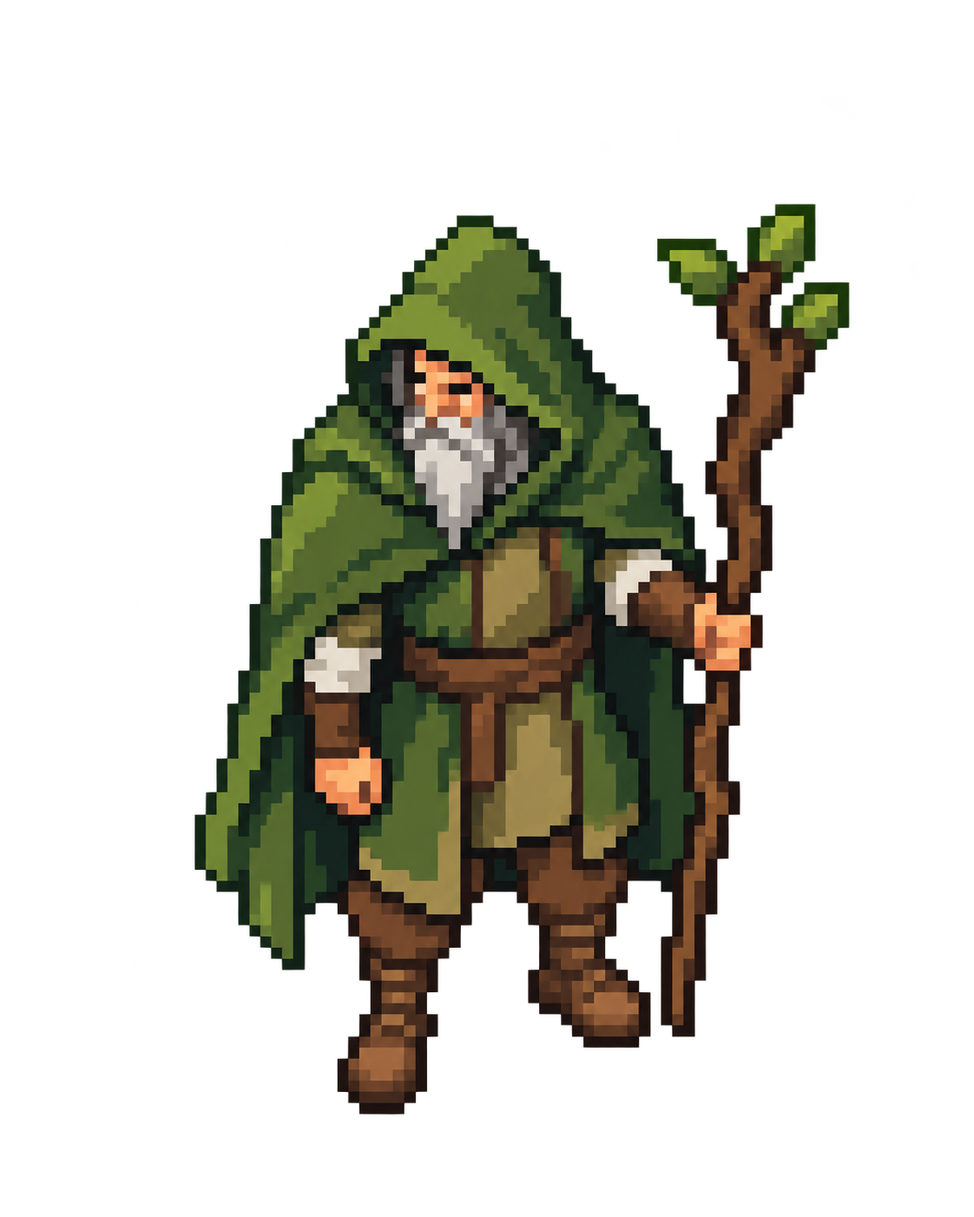
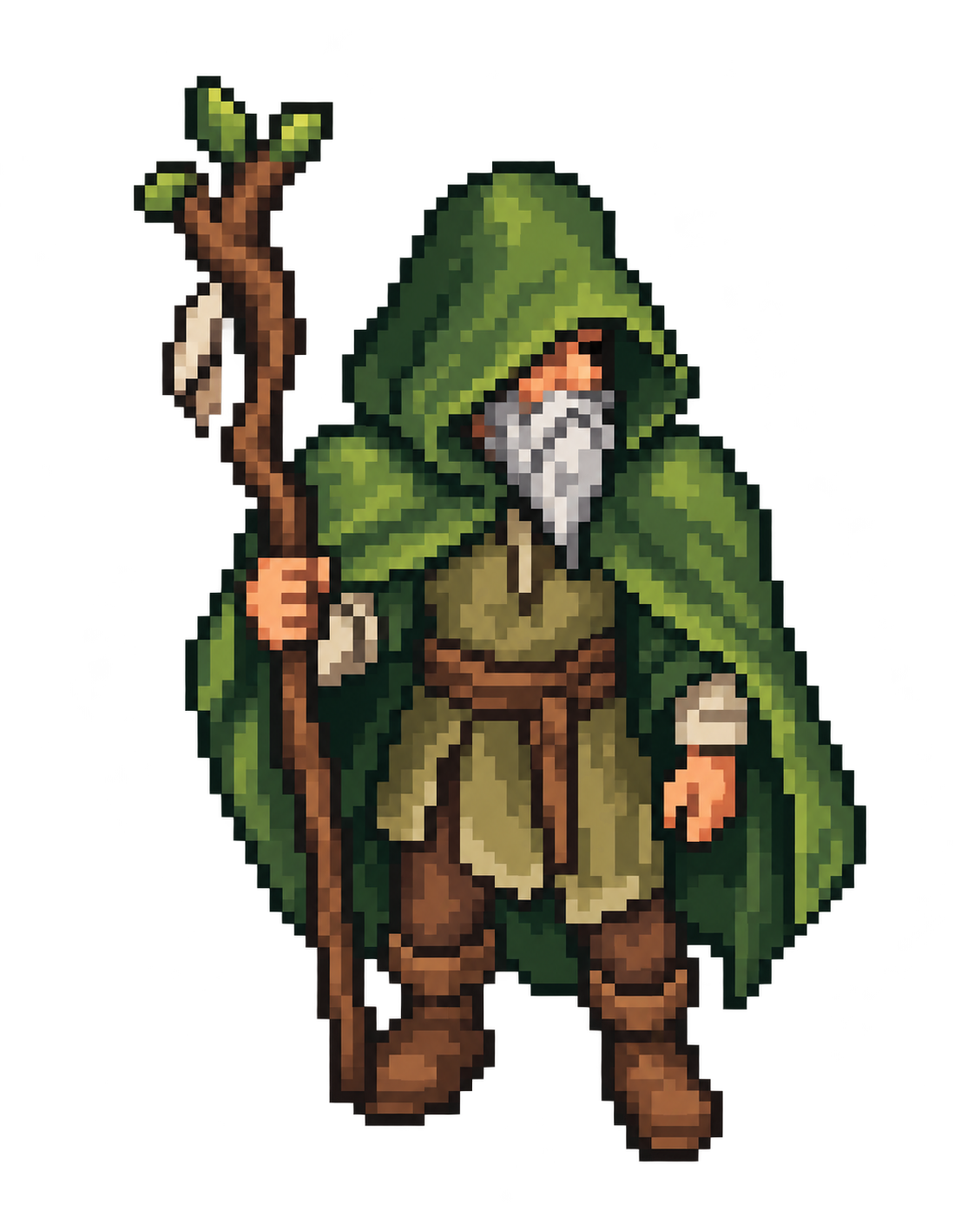
Integrate approved larger camp druid and detailed playable sprite

diff --git a/src/rendering/druidArt.ts b/src/rendering/druidArt.ts
@@ -11,21 +11,27 @@ export const DRUID_TEXTURES = {
 
 export const DRUID_ART = [
   { key: DRUID_TEXTURES.standing, url: standing, frame: { x: 275, y: 49, width: 745, height: 1129 } },
-  { key: DRUID_TEXTURES.campSource, url: campSource, frame: { x: 280, y: 86, width: 769, height: 1093 } },
-  { key: DRUID_TEXTURES.gameSource, url: gameSource, frame: { x: 224, y: 235, width: 754, height: 1049 } },
+  { key: DRUID_TEXTURES.campSource, url: campSource, frame: { x: 87, y: 25, width: 917, height: 1401 } },
+  { key: DRUID_TEXTURES.gameSource, url: gameSource, frame: { x: 154, y: 88, width: 844, height: 1250 } },
 ] as const;
 
 export const CAMP_DRUID = {
-  width: 40, height: 56, contentHeight: 50,
-  seatOriginY: (1 + 50 * 0.67) / 56,
+  width: 54, height: 75, contentHeight: 67,
+  scale: 265 / 75,
+  seatOriginY: (1 + 67 * 0.67) / 75,
 } as const;
 
+export interface GameSpriteMetrics {
+  width: number; height: number; scale: number; contentHeight: number;
+  feetY: number; bodyWidth: number; bodyHeight: number; bodyCenterY: number;
+}
+
 export const GAME_DRUID = {
-  // Тот же формат кадра, но меньше исходных пикселей и ещё +25% к размеру.
-  width: 24, height: 30, scale: (32 / 24) * 1.75 * 1.25 * 1.25,
-  contentHeight: 25, feetY: 26,
+  // На треть больше пикселей по каждой стороне при прежнем размере на поляне.
+  width: 32, height: 40, scale: 87.5 / 32,
+  contentHeight: 33, feetY: 34,
   bodyWidth: 20, bodyHeight: 25, bodyCenterY: 10,
-} as const;
+} as const satisfies GameSpriteMetrics;
 
 const GAME_PALETTE = [
   0x142820,
@@ -33,8 +39,9 @@ const GAME_PALETTE = [
   0x393022, 0x655134, 0x9c7e53,
   0xad8b60, 0xc7ab7b,
   0x637266, 0x9fa98e, 0xc9cbb1,
+  0x203927, 0x547348, 0x80765a, 0xb6bba0,
 ];
-const CAMP_PALETTE = [...GAME_PALETTE, 0x203927, 0xaaa17b, 0xbaa26b, 0x88947f];
+const CAMP_PALETTE = [...GAME_PALETTE, 0xaaa17b, 0xbaa26b, 0x88947f, 0x344c3e, 0x796542, 0xd8d6b9];
 
 interface SmallSprite {
   key: string; sourceKey: string;

diff --git a/src/data/characters.ts b/src/data/characters.ts
@@ -1,4 +1,4 @@
-import { CAMP_DRUID, DRUID_TEXTURES } from '../rendering/druidArt';
+import { CAMP_DRUID, DRUID_TEXTURES, GAME_DRUID, type GameSpriteMetrics } from '../rendering/druidArt';
 
 export interface CharacterDefinition {
   id: string;
@@ -6,7 +6,8 @@ export interface CharacterDefinition {
   available: boolean;
   description: string;
   portrait: { texture: string; frame?: string };
-  camp?: { texture: string; originX: number; originY: number };
+  camp?: { texture: string; originX: number; originY: number; scale: number };
+  game?: { texture: string; metrics: GameSpriteMetrics };
 }
 
 // Порядок массива определяет порядок ячеек; новые персонажи добавляются здесь.
@@ -14,7 +15,8 @@ export const CHARACTERS: readonly CharacterDefinition[] = [
   {
     id: 'druid', name: 'Друид', available: true, description: 'Природная магия · 3 HP',
     portrait: { texture: DRUID_TEXTURES.standing, frame: 'figure' },
-    camp: { texture: DRUID_TEXTURES.camp, originX: 0.5, originY: CAMP_DRUID.seatOriginY },
+    camp: { texture: DRUID_TEXTURES.camp, originX: 0.5, originY: CAMP_DRUID.seatOriginY, scale: CAMP_DRUID.scale },
+    game: { texture: DRUID_TEXTURES.game, metrics: GAME_DRUID },
   },
   { id: 'locked-1', name: 'Закрыто', available: false, description: 'Пока недоступен', portrait: { texture: DRUID_TEXTURES.standing, frame: 'figure' } },
   { id: 'locked-2', name: 'Закрыто', available: false, description: 'Пока недоступен', portrait: { texture: DRUID_TEXTURES.standing, frame: 'figure' } },

diff --git a/src/scenes/RoomScene.ts b/src/scenes/RoomScene.ts
@@ -6,7 +6,6 @@ import { bindSceneKey } from '../ui/sceneHelpers';
 import { MeadowWorld } from '../world/MeadowWorld';
 import { generateMeadow, MEADOW_MIN_HEIGHT, MEADOW_PIXEL_SCALE, obstacleRect, overlaps, type MeadowLayout } from '../world/meadowLayout';
 import { createMeadowTextures } from '../rendering/meadowTextures';
-import { DRUID_TEXTURES, GAME_DRUID } from '../rendering/druidArt';
 
 export class RoomScene extends Phaser.Scene {
   player!: Phaser.Physics.Arcade.Image;
@@ -31,10 +30,12 @@ export class RoomScene extends Phaser.Scene {
     this.playerHealth = SETTINGS.playerHealth;
     this.physics.resume();
     createMeadowTextures(this);
-    const art = GAME_DRUID;
+    const character = CHARACTERS.find(item => item.id === this.characterId)!;
+    const appearance = character.game ?? CHARACTERS[0].game!;
+    const art = appearance.metrics;
     const feetOffset = art.bodyCenterY + art.bodyHeight / 2;
     const originY = art.feetY - feetOffset / art.scale;
-    this.player = this.physics.add.image(0, 0, DRUID_TEXTURES.game)
+    this.player = this.physics.add.image(0, 0, appearance.texture)
       .setOrigin(0.5, originY / art.height).setScale(art.scale)
       .setSize(art.bodyWidth / art.scale, art.bodyHeight / art.scale)
       .setOffset((art.width - art.bodyWidth / art.scale) / 2,

diff --git a/src/scenes/CharacterSelectScene.ts b/src/scenes/CharacterSelectScene.ts
@@ -71,7 +71,7 @@ export class CharacterSelectScene extends Phaser.Scene {
     this.selectedId = character.id;
     this.cards.forEach(card => card.setSelected(card.getData('characterId') === character.id));
     this.campPreview.setTexture(character.camp.texture).setOrigin(character.camp.originX, character.camp.originY)
-      .setScale(MENU_LAYOUT.select.backgroundPixelScale).setData('characterId', character.id);
+      .setScale(character.camp.scale).setData('characterId', character.id);
     this.nameLabel.setText(character.name);
     this.descriptionLabel.setText(character.description);
     return true;

diff --git a/docs/VISUAL_STYLE.md b/docs/VISUAL_STYLE.md
@@ -14,11 +14,11 @@
 
 ## Выбор персонажа
 
-Лес, костёр и бревно сохраняют композицию, но фон имеет более простые пиксельные формы. На бревне сидит отдельно перерисованная версия рабочего друида: крупные простые цветовые формы вместо высокой детализации портрета. Текстура 40×56 пикселей, до 16 цветов; увеличение в 2,5 раза совпадает с размером пикселя задника. Внешний вид фигуры и её точка опоры задаются в данных выбранного персонажа, чтобы позже переключать образы без перерисовки леса. Остальные ячейки пока закрыты. Ячейка друида показывает его рабочий образ в полный рост. Слева три ячейки: первая доступна, остальные затемнены. Смена фона, интерфейса и персонажа должна выполняться независимо.
+Лес, костёр и бревно сохраняют композицию, но фон имеет более простые пиксельные формы. На бревне сидит отдельно перерисованная версия рабочего друида: крупные простые цветовые формы вместо высокой детализации портрета. Текстура 54×75 пикселей, до 22 цветов; отображение 190,8×265 игровых единиц. Фигура значительно крупнее, по масштабу ближе к друиду главного меню; немного яснее лицо, руки, борода и складки. Внешний вид фигуры, масштаб и её точка опоры задаются в данных выбранного персонажа, чтобы позже переключать образы без перерисовки леса. Остальные ячейки пока закрыты. Ячейка друида показывает его рабочий образ в полный рост. Слева три ячейки: первая доступна, остальные затемнены. Смена фона, интерфейса и персонажа должна выполняться независимо.
 
 Первый принятый экран выбора сохранён меткой Git `character-select-v1` (коммит `07952f3`): фон 480×270, увеличенный до 960×540 без сглаживания. Это первая примерно готовая визуальная веха проекта.
 
-Текущий эксперимент увеличивает размер пикселя ещё на четверть: коэффициент 2,5 вместо 2, фон 384×216. Коэффициент `backgroundPixelScale` задаётся в `src/ui/layout.ts`: возврат к 2 восстановит прежнюю плотность пикселей. Текст, кнопки и сидящая фигура рисуются отдельными слоями; у фигуры такая же плотность пикселей, как у фона. Между надписью «Природная магия · 3 HP» и кнопками оставлен больший отступ.
+Текущий эксперимент увеличивает размер пикселя ещё на четверть: коэффициент 2,5 вместо 2, фон 384×216. Коэффициент `backgroundPixelScale` задаётся в `src/ui/layout.ts`: возврат к 2 восстановит прежнюю плотность пикселей. Текст, кнопки и сидящая фигура рисуются отдельными слоями; разрешение и масштаб фигуры задаются отдельно от фона. Между надписью «Природная магия · 3 HP» и кнопками оставлен больший отступ.
 
 Рабочий образ героя принят, анимация ещё не подготовлена. Для новых персонажей, движений, кнопок и других художественных элементов сначала обсуждаем внешний вид и поведение, затем интегрируем согласованный вариант.
 
@@ -28,7 +28,7 @@
 
 По присланному референсу и направлению Children of Morta окружение и друид перерисованы в более тёмной зелёной палитре: неоднородная трава, группы листьев, объёмные кроны и тени. Вид сверху стал выше: больше видны верхние поверхности кроны, среза пня и капюшона, меньше — стволы и боковая кора. Это художественное изменение 2D-рисунка, числовой угол 3D-камеры не задаётся. WASD по-прежнему соответствует направлениям экрана. Мелкие украшения, отдельные волоски и фактура одежды убраны из игрового героя: читаемость строится на капюшоне, острой бороде, плаще, сапогах и посохе.
 
-Текстуры окружения временные, с коэффициентом увеличения 2,5 без сглаживания. Детализация согласуется с текущим экспериментом на экране выбора. Кустов от 4 до 7; деревьев базовое число ±4, например 31–39 при 16:9. Сохраняются центральный пень, свободные проходы и случайное размещение окружения. Жук и стрельба на время работы над комнатой отключены. Детализация окружения и анимации ещё предстоит согласовать. Друид в комнате использует упрощённую версию принятого рабочего образа: 24×30 пикселей, палитра до 12 цветов, отображение 87,5×109,375 игровых единиц (ещё на четверть больше 70×87,5) и прежняя геометрия столкновений.
+Текстуры окружения временные, с коэффициентом увеличения 2,5 без сглаживания. Детализация согласуется с текущим экспериментом на экране выбора. Кустов от 4 до 7; деревьев базовое число ±4, например 31–39 при 16:9. Сохраняются центральный пень, свободные проходы и случайное размещение окружения. Жук и стрельба на время работы над комнатой отключены. Детализация окружения и анимации ещё предстоит согласовать. Друид в комнате использует упрощённую версию принятого рабочего образа: 32×40 пикселей, палитра до 16 цветов, прежнее отображение 87,5×109,375 игровых единиц и прежняя геометрия столкновений. Детализация увеличена примерно на треть по каждой стороне; сохранены крупные читаемые формы. Текстура и параметры игрового образа задаются в данных персонажа.
 
 ## Развитие проекта
 

diff --git a/docs/art/druid-detail-preview-v1/README.md b/docs/art/druid-detail-preview-v1/README.md
@@ -1,6 +1,6 @@
 # Эскизы размера и детализации друида
 
-Две картинки для обсуждения следующего изменения. Они сгенерированы по снимкам текущих сцен и образу рабочего друида. Код, игровые PNG, параметры размеров и поведение приложения не изменены.
+Две одобренные картинки, сгенерированные по снимкам сцен и образу рабочего друида. На их основе подготовлены отдельные прозрачные сидящий и игровой спрайты и подключены в приложение. Эти PNG сохраняются как эскизы целых сцен; фон и интерфейс в игре остаются самостоятельными слоями.
 
 ## Экран выбора персонажа
 
@@ -8,7 +8,7 @@
 
 <img src="character-selection-preview.png" alt="Эскиз: более крупный сидящий друид на экране выбора" width="960">
 
-Сидящий друид заметно крупнее текущего, ориентир по размеру — персонаж в главном меню. Позу поддерживает то же бревно; крупный портрет в ячейке остаётся отдельным элементом. Детализация увеличена умеренно, с сохранением крупных пиксельных форм.
+Сидящий друид заметно крупнее предыдущего, ориентир по размеру — персонаж в главном меню. Позу поддерживает то же бревно; крупный портрет в ячейке остаётся отдельным элементом. Детализация увеличена умеренно, с сохранением крупных пиксельных форм.
 
 ## Игровой друид
 
@@ -18,13 +18,13 @@
 
 Ориентир — нынешний размер героя на поляне, с более ясными формами капюшона, лица, бороды, складок плаща и посоха. Мелкие украшения и шумная фактура не возвращаются.
 
-## Предлагаемая сетка для следующей интеграции
+## Подключённая сетка
 
-«На треть больше пикселей» в этой пробе означает увеличение разрешения примерно на треть **по каждой стороне**. Это целевые параметры будущих отдельных спрайтов; эти PNG показывают эскизы целых сцен.
+«На треть больше пикселей» в этой пробе означает увеличение разрешения примерно на треть **по каждой стороне**. Эти параметры реализованы в отдельных спрайтах; PNG в этой папке показывают одобренные эскизы целых сцен.
 
-| Вариант | Текущая сетка | Предлагаемая сетка | Масштаб на экране |
+| Вариант | Предыдущая сетка | Подключённая сетка | Масштаб на экране |
 | --- | --- | --- | --- |
 | Сидящий друид | 40×56 | 54×75 | Значительно крупнее, примерно как в главном меню |
 | Игровой друид | 24×30 | 32×40 | Прежний размер |
 
-Для просмотра на компьютере выполните `git pull --ff-only` и откройте PNG в этой папке. На GitHub можно открыть картинку и скачать оригинал через «Download raw file». После обсуждения выбранный вид можно подготовить как отдельную текстуру и подключить в игру.
+Для просмотра на компьютере выполните `git pull --ff-only` и откройте PNG в этой папке. На GitHub можно открыть картинку и скачать оригинал через «Download raw file». Рабочие прозрачные исходники: [сидящий друид](../../../src/assets/characters/druid-camp-source.png) и [игровой друид](../../../src/assets/characters/druid-game-source.png). Сидящая фигура отображается в размере 190,8×265 игровых единиц, игровая — в прежнем размере 87,5×109,375. Образы и размеры задаются в данных персонажа; главный экран и подробный портрет в ячейке сохранены.

diff --git a/docs/art/druid-sprites-v1/README.md b/docs/art/druid-sprites-v1/README.md
@@ -1,8 +1,8 @@
 # Друид: три варианта игрового спрайта
 
-Из этих вариантов принят **первый — «Лесной странник»**. Исправленный [рабочий образ](../../../src/assets/characters/druid-standing-detail.png) получил отдельную связку корешков слева от зрителя вместо цветов. Для экрана выбора подготовлен отдельно перерисованный [пиксельный сидящий образ](../../../src/assets/characters/druid-camp-source.png), преобразуемый в текстуру 40×56. Главное меню сохраняет прежний вид. Для комнаты используется [упрощённый рисунок для игры](../../../src/assets/characters/druid-game-source.png), который преобразуется в текстуру 24×30. Ниже сохранены исходные три варианта для сравнения. Один ракурс сверху, нейтральная поза в полный рост и сопоставимый масштаб. Основа — зрелый мужчина с капюшоном, неухоженной острой седой бородой, тканевым плащом и посохом из кривой сосновой ветки с листьями и перьями. Ориентир образа — друид из принятого главного меню.
+Из этих вариантов принят **первый — «Лесной странник»**. Исправленный [рабочий образ](../../../src/assets/characters/druid-standing-detail.png) получил отдельную связку корешков слева от зрителя вместо цветов. Для экрана выбора подготовлен отдельно перерисованный [пиксельный сидящий образ](../../../src/assets/characters/druid-camp-source.png), преобразуемый в текстуру 54×75. Главное меню сохраняет прежний вид. Для комнаты используется [упрощённый рисунок для игры](../../../src/assets/characters/druid-game-source.png), который преобразуется в текстуру 32×40. Ниже сохранены исходные три варианта для сравнения. Один ракурс сверху, нейтральная поза в полный рост и сопоставимый масштаб. Основа — зрелый мужчина с капюшоном, неухоженной острой седой бородой, тканевым плащом и посохом из кривой сосновой ветки с листьями и перьями. Ориентир образа — друид из принятого главного меню.
 
-Все три PNG имеют размер **1254×1254** и прозрачный фон. Высота основной непрозрачной фигуры различается не более чем на 5 пикселей. Это исходные варианты для сравнения; рабочая игровая сетка теперь 24×30, кадры направлений и движений ещё предстоит подготовить. Исходная тройка была сгенерирована отдельно для обсуждения образа; выбранная и исправленная версия теперь используется в игре.
+Все три PNG имеют размер **1254×1254** и прозрачный фон. Высота основной непрозрачной фигуры различается не более чем на 5 пикселей. Это исходные варианты для сравнения; рабочая игровая сетка теперь 32×40, кадры направлений и движений ещё предстоит подготовить. Исходная тройка была сгенерирована отдельно для обсуждения образа; выбранная и исправленная версия теперь используется в игре.
 
 ## 1. Лесной странник
 

diff --git a/src/assets/README.md b/src/assets/README.md
@@ -3,7 +3,7 @@
 - `main-camp.png` — прежняя согласованная иллюстрация главного меню с костром и исходным сидящим друидом. Восстановлена из версии до замены персонажа.
 - `selection-camp.png` — упрощённый пиксельный лагерь с пустым бревном. Фон выбора сохраняет принятую композицию и пикселизацию.
 - `characters/druid-standing-detail.png` — принятый первый вариант друида с исправленной связкой корешков; используется в ячейке выбора.
-- `characters/druid-camp-source.png` — отдельно перерисованный простой сидящий друид; преобразуется в текстуру 40×56 с палитрой до 16 цветов для экрана выбора.
-- `characters/druid-game-source.png` — отдельно упрощённый рисунок для комнаты. При загрузке превращается в текстуру 24×30 с палитрой до 12 цветов. Мелкие украшения и фактура убраны.
+- `characters/druid-camp-source.png` — прозрачный сидящий друид по одобренному эскизу; преобразуется в текстуру 54×75 с палитрой до 22 цветов для экрана выбора.
+- `characters/druid-game-source.png` — прозрачный игровой друид по одобренному эскизу. При загрузке превращается в текстуру 32×40 с палитрой до 16 цветов. Мелкие украшения и фактура убраны.
 
-Изображения сгенерированы и включены в сборку. Отдельные PNG персонажа имеют прозрачный фон. Сидящая фигура связана с данными выбранного персонажа в `src/data/characters.ts`; её пиксель совпадает с размером пикселя задника. Подробный PNG используется только в ячейке. Границы фигуры, масштаб и подготовка текстур заданы в `src/rendering/druidArt.ts`, размещение в меню — в `src/ui/layout.ts`, загрузка — в `BootScene`. Для игрового героя размер растра 24×30, размер на экране увеличен ещё на 25% до 87,5×109,375 игровых единиц; положение ног и физическое тело задаются отдельно от масштаба. Спрайты статические; анимацию подготовим отдельным этапом.
+Изображения сгенерированы и включены в сборку. Отдельные PNG персонажа имеют прозрачный фон. Сидящая фигура связана с данными выбранного персонажа в `src/data/characters.ts`; её масштаб и точка опоры задаются независимо от задника. Подробный PNG используется только в ячейке. Границы фигуры, масштаб и подготовка текстур заданы в `src/rendering/druidArt.ts`, размещение в меню — в `src/ui/layout.ts`, загрузка — в `BootScene`. Для игрового героя размер растра 32×40, размер на экране сохранён: 87,5×109,375 игровых единиц; положение ног и физическое тело задаются отдельно от масштаба. Игровой образ также выбирается из данных персонажа (`game.texture` и `game.metrics`). Сидящая фигура отображается в размере 190,8×265 игровых единиц. Спрайты статические; анимацию подготовим отдельным этапом.
